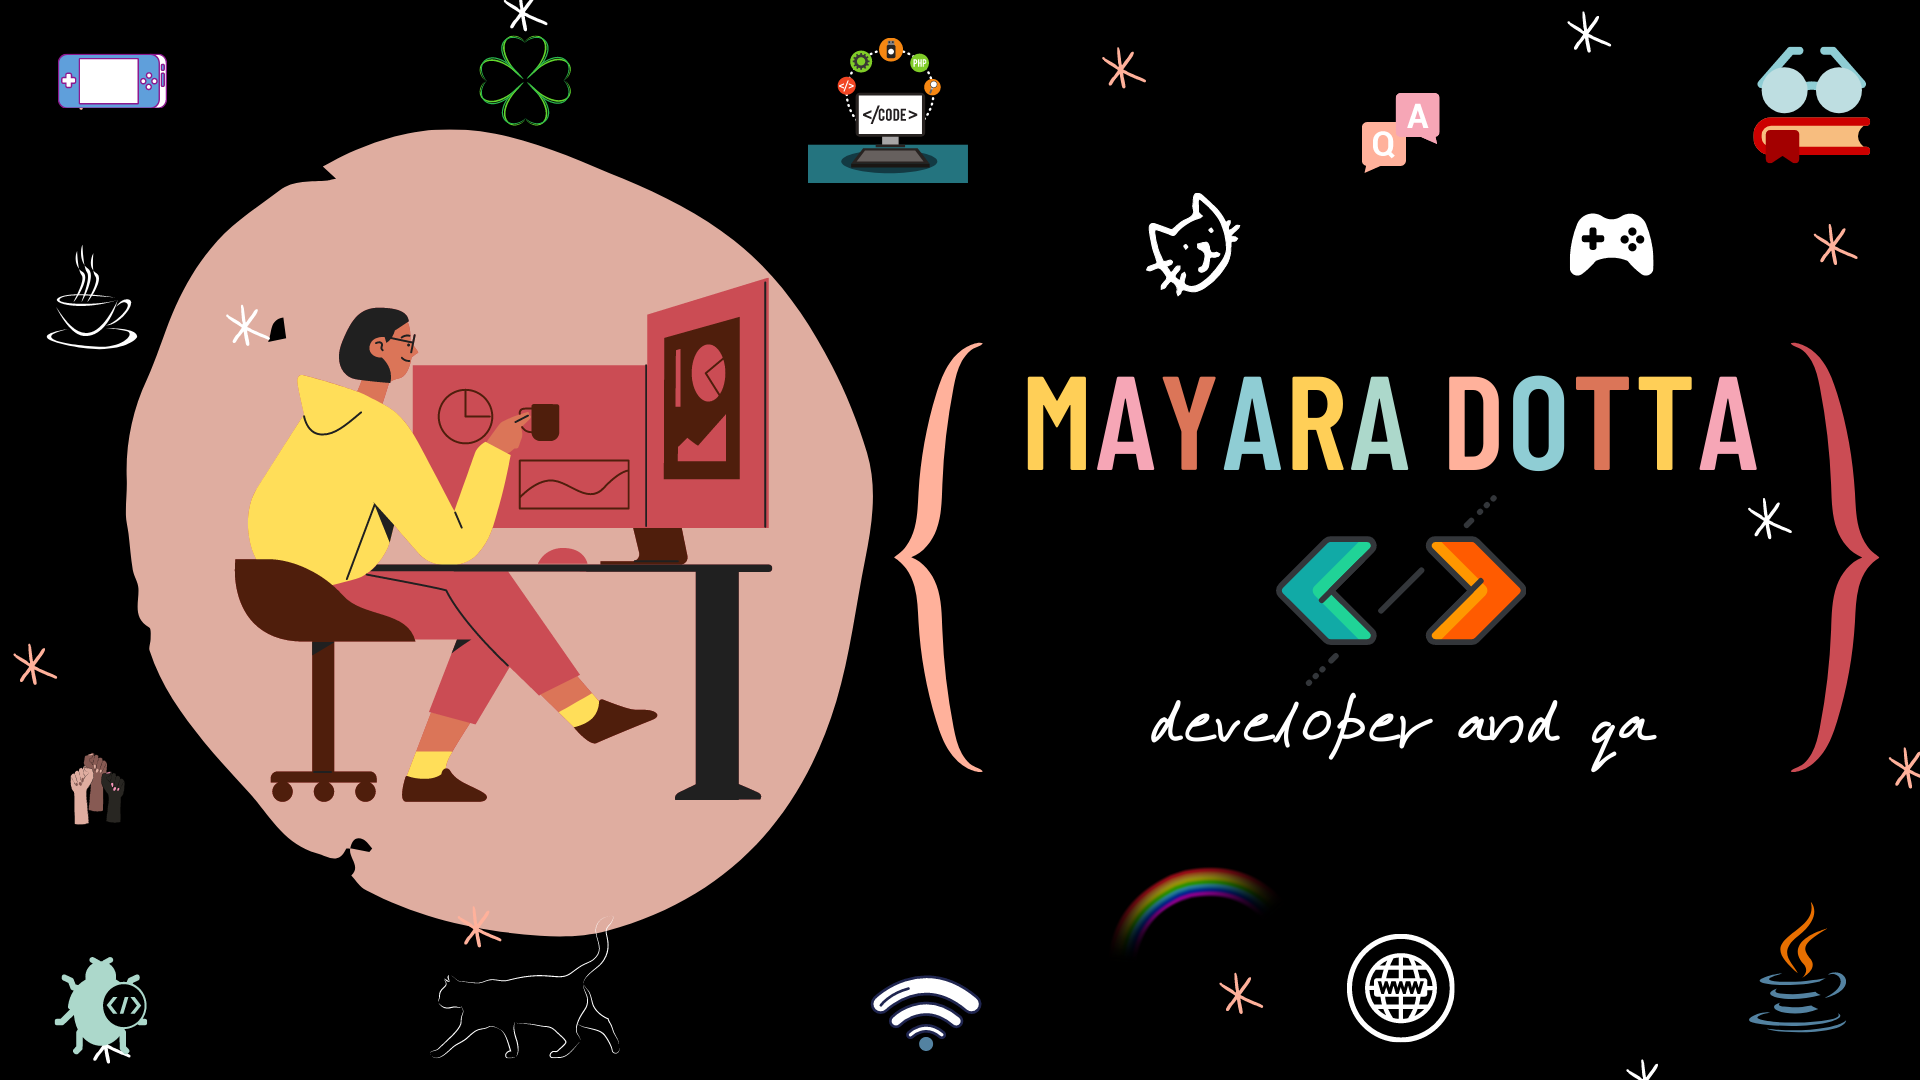
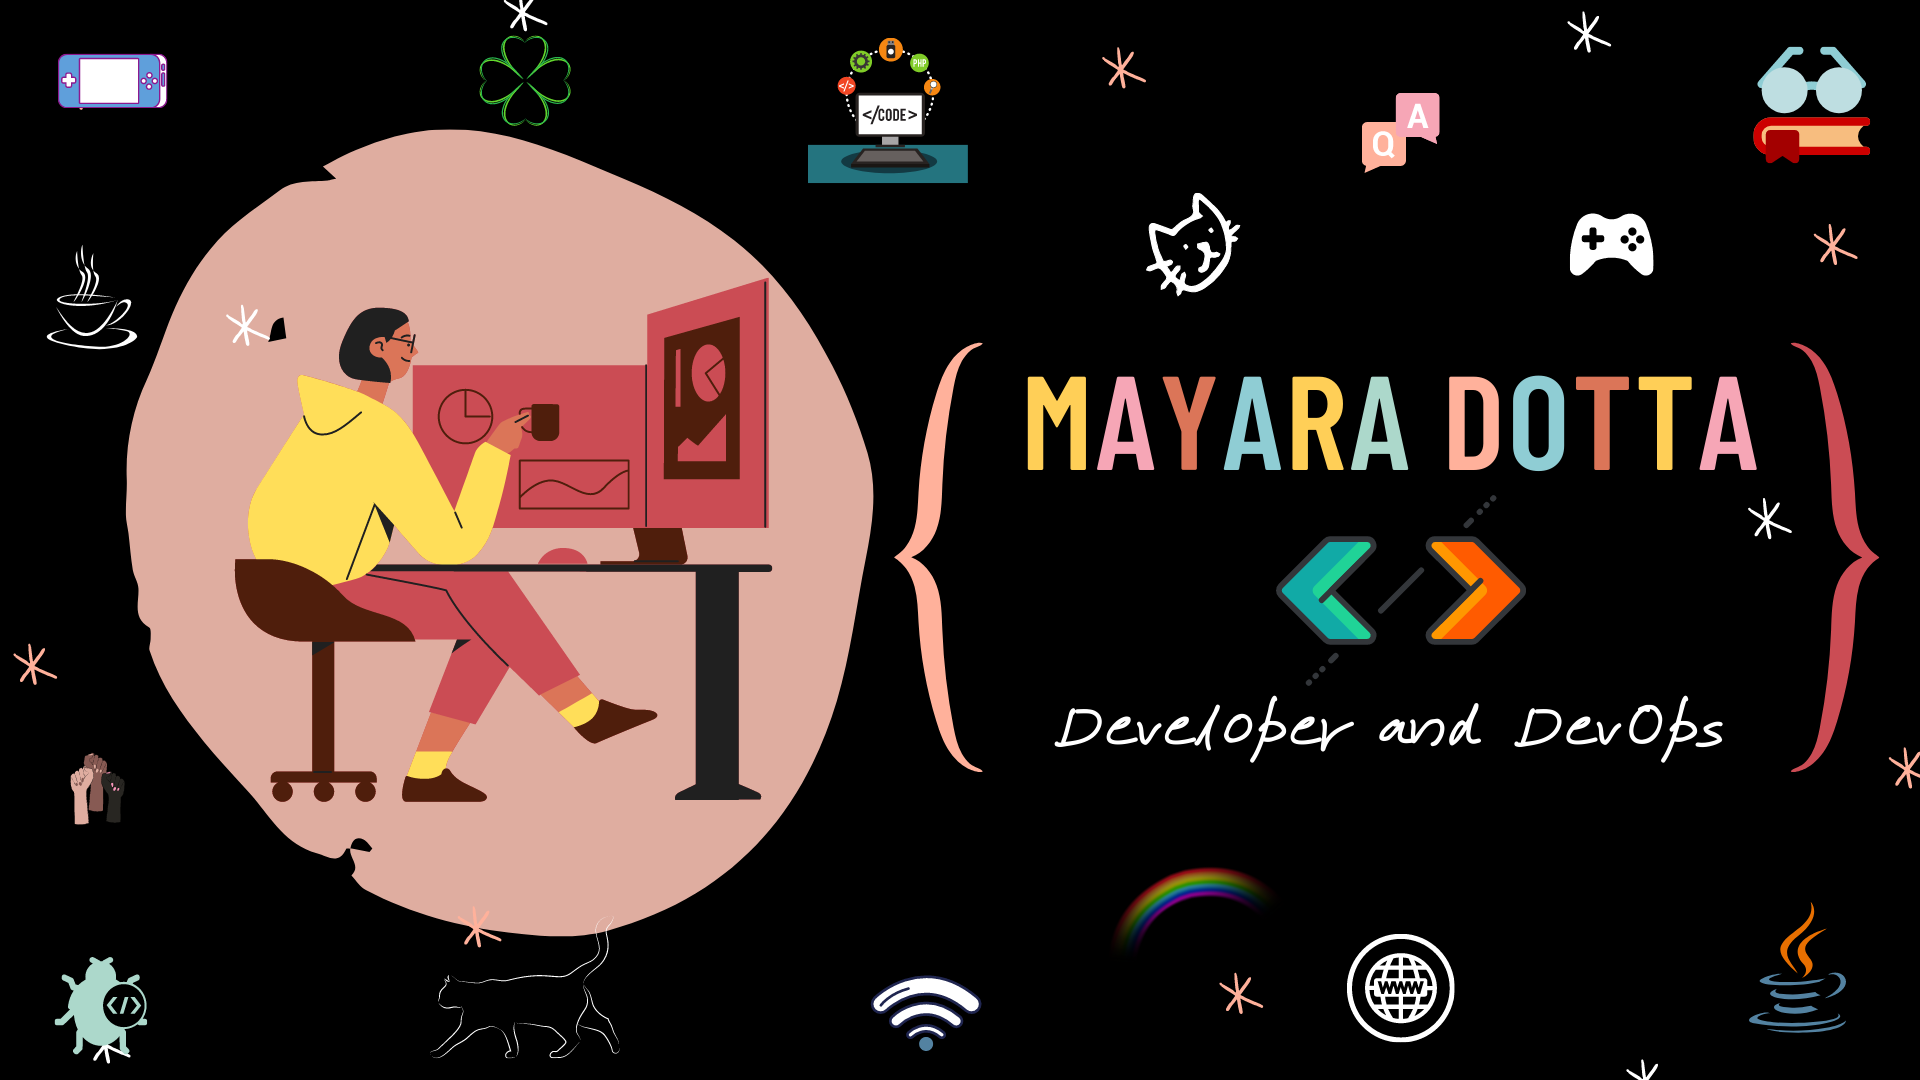
update

Changed region(s): [[0.5312, 0.6417, 0.9062, 0.7028], [0.0625, 0.0611, 0.0938, 0.0917]]

diff --git a/README.md b/README.md
@@ -13,7 +13,11 @@
 
 
 Sou estudante do curso de Análise e Desenvolvimento de Sistemas pela Faculdade de Tecnologia do Estado de São Paulo.    
+<<<<<<< HEAD
+Atuo na área como Analista de Desenvolvimento de Sistemas e DevOps, desde 2020, mesmo ano onde realizei o Bootcamp da Generation Brasil, tornando-me assim uma pessoa desenvolvedora Java Jr.
+=======
 Atuo na área como Analista de Engenharia de TI, desde 2020, mesmo ano onde realizei o Bootcamp da Generation Brasil, tornando-me assim uma pessoa desenvolvedora Java Jr.
+>>>>>>> 0a76cf73d1afdea0a596845a1407f282192bcc68
 
 Amo "nerdices" :nerd_face:, ler :books:, ver filmes/séries :film_strip:, viajar :world_map: e café :coffee:
 
@@ -42,55 +46,3 @@ A tecnologia transformou a minha vida, por isso hoje, incentivo outras mulheres 
 <p>  
 
 ---
-
-<!--
-A woman who loves programming, technology and coffee. :coffee:  
-###### Uma mulher que ama programar, tecnologia e café.
----
-This is the place where I opensource stuff and break things. :sparkles:
-###### Esse é o lugar onde eu abro o código e quebro coisas...
----  
-
-### I'm curious to learn and understand the latest technology. :satellite: 
-###### Estou curiosa para aprender e entender as tecnologias mais recentes.
-### Over here you all find:
-###### Aqui você encontrará:
-
-![Top Langs](https://github-readme-stats.vercel.app/api/top-langs/?username=DottaMP&layout=compact&theme=radical)
-<p align="left">   
-
-###### and more... 
-###### e mais...
-
-<img src="https://raw.githubusercontent.com/MikeCodesDotNET/ColoredBadges/master/png/dev/languages/java.png" width="70" height="20">&nbsp;
-<img src="https://raw.githubusercontent.com/MikeCodesDotNET/ColoredBadges/master/png/dev/languages/js.png" width="70" height="20">&nbsp;
-<img src="https://raw.githubusercontent.com/MikeCodesDotNET/ColoredBadges/master/png/dev/languages/python.png" width="70" height="20">&nbsp;
-<img src="https://img.shields.io/badge/MySQL-00000F?style=for-the-badge&logo=mysql&logoColor=white" width="70" height="20">&nbsp;
-<img src="https://raw.githubusercontent.com/MikeCodesDotNET/ColoredBadges/master/png/dev/tools/docker.png" width="70" height="20">&nbsp;
-<img src="https://raw.githubusercontent.com/MikeCodesDotNET/ColoredBadges/master/png/dev/frameworks/angular.png" width="70" height="20">&nbsp;     
-<img src="https://img.shields.io/badge/Spring-6DB33F?style=for-the-badge&logo=spring&logoColor=white" width="70" height="20">&nbsp;
-<img src="https://raw.githubusercontent.com/MikeCodesDotNET/ColoredBadges/master/png/dev/frameworks/bootstrap.png" width="70" height="20">&nbsp;
-<img src="https://raw.githubusercontent.com/MikeCodesDotNET/ColoredBadges/master/png/dev/tools/visualstudio.png" width="70" height="20">&nbsp;
-<img src="https://img.shields.io/badge/C-00599C?style=for-the-badge&logo=c&logoColor=white" width="70" height="20">&nbsp;
-<img src="https://img.shields.io/badge/Amazon_AWS-232F3E?style=for-the-badge&logo=amazon-aws&logoColor=white" width="70" height="20">&nbsp;
-<img src="https://raw.githubusercontent.com/MikeCodesDotNET/ColoredBadges/master/png/dev/misc/web.png" width="70" height="20">&nbsp;
-
-&nbsp; <img src="https://media0.giphy.com/media/AOSwwqVjNZlDO/200w.webp?cid=ecf05e4758d1a0e51cc00438214c03daf26abc95ba41b2d2&rid=200w.webp" width="250" height="125">
-
-
-<!--
-**DottaMP/DottaMP** is a ✨ _special_ ✨ repository because its `README.md` (this file) appears on your GitHub profile.
-
-
-<!--
-Here are some ideas to get you started:
-
-<!--- 🔭 I’m currently working on ...
-<!--- 🌱 I’m currently learning ...
-<!--- 👯 I’m looking to collaborate on ...
-<!--- 🤔 I’m looking for help with ...
-<!--- 💬 Ask me about ...
-<!--- 📫 How to reach me: ...
-<!--- 😄 Pronouns: ...
-<!--- ⚡ Fun fact: ...
-->
